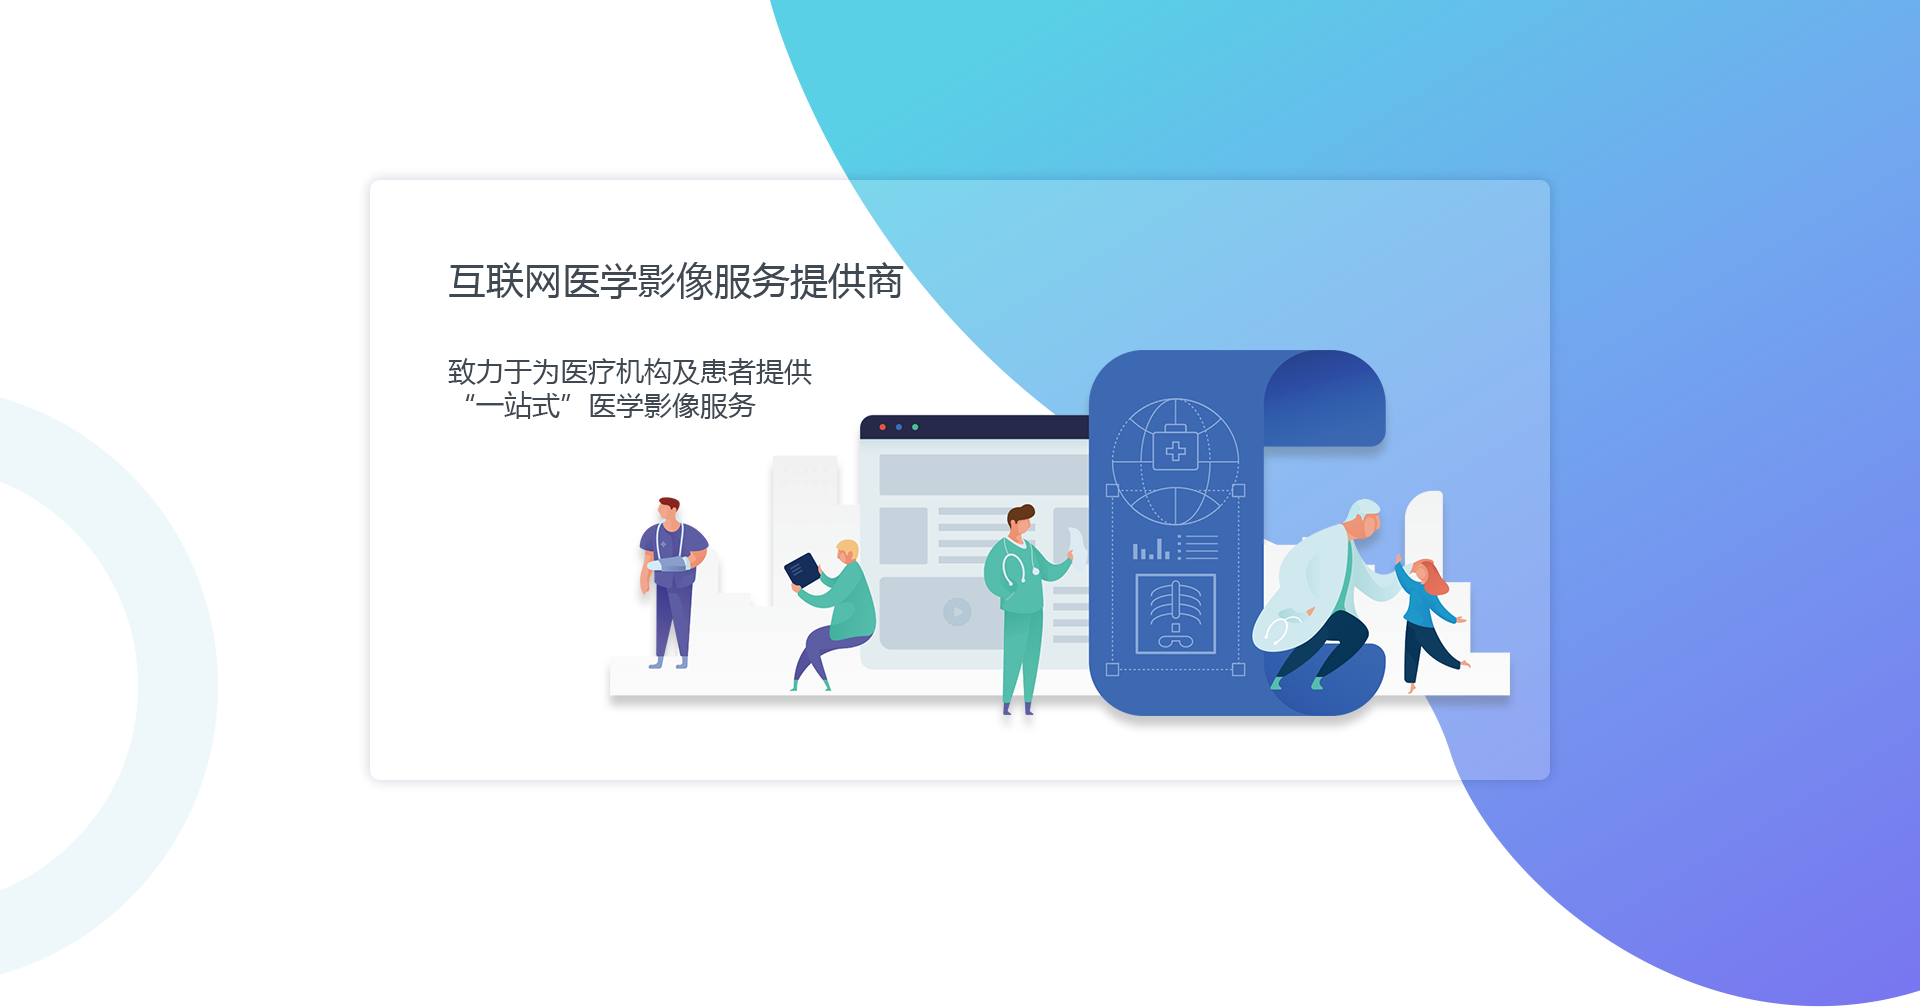
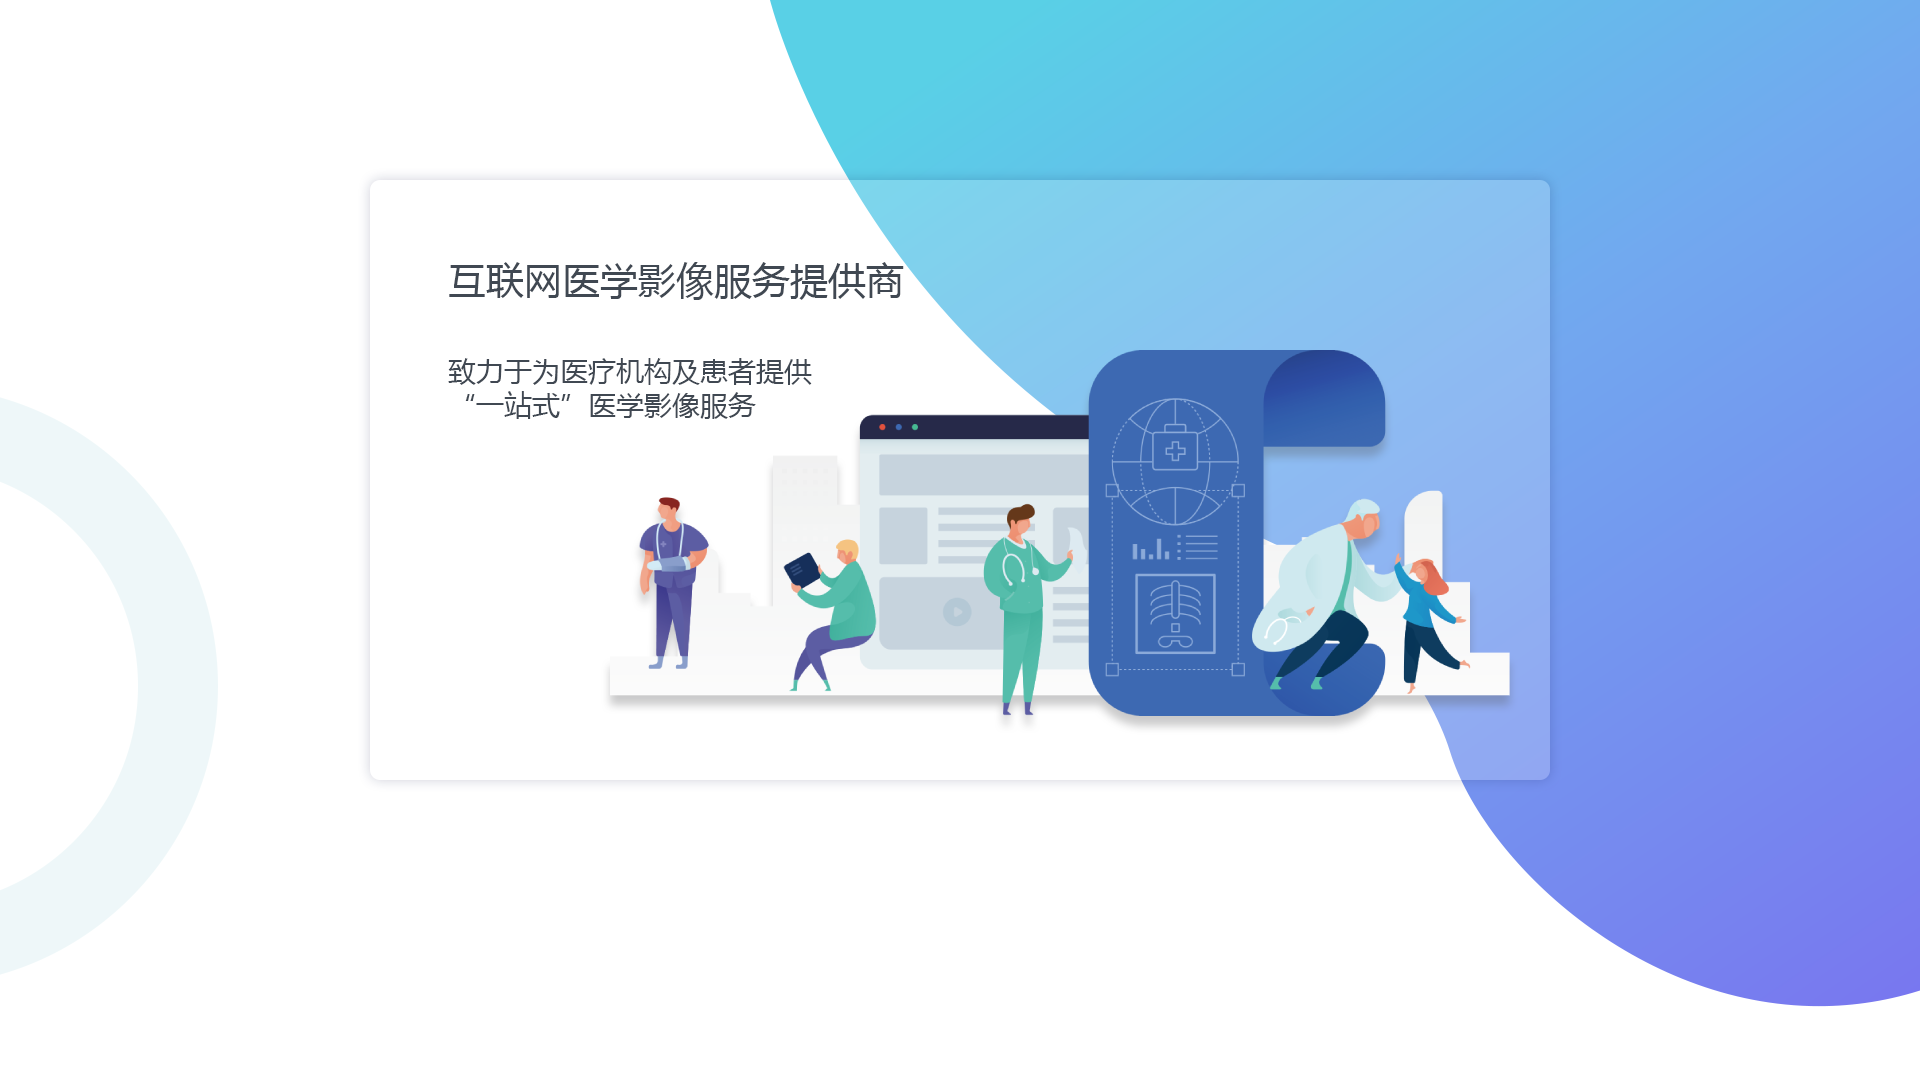
适配各分辨率

Changed region(s): [[0.3125, 0.3078, 1.0, 1.0], [0.2188, 0.1539, 0.8125, 0.431], [0.4062, 0.1231, 0.4375, 0.1539]]

diff --git a/index.html b/index.html
@@ -9,7 +9,7 @@
 	<meta content="width=device-width, initial-scale=1,maximum-scale=1,user-scalable=no" name="viewport">
 
 	<title>逸康网</title>
-
+	<link rel="icon" href="assets/images/logo.png" type="image/x-icon">
 	<link rel="stylesheet" href="css/jquery.fullPage.css">
 	<link rel="stylesheet" href="css/swiper.min.css">
 	<link rel="stylesheet" href="css/animate.min.css">
@@ -108,13 +108,13 @@
 					<ul class="parent">
 						<li class="on"><a href="/index.html">首页</a></li>
 						<li><a href="/about/index.html">产品服务</a>
-							<ul>
+							<ul class="child">
 								<li><a href="/about/index.html">健康服务</a></li>
 
 							</ul>
 						</li>
 						<li><a href="/sics/index.html">云影像解决方案</a>
-							<ul>
+							<ul class="child">
 								<li><a href="/sics/index.html">云胶片</a></li>
 								<li><a href="/sics/edu.html">云教育</a></li>
 								<li><a href="/sics/brand.html">云品牌</a></li>
@@ -122,7 +122,7 @@
 							</ul>
 						</li>
 						<li><a href="/case/index.html">产品演示</a>
-							<ul>
+							<ul class="child">
 								<li><a href="/case/index.html">单体医院</a></li>
 								<li><a href="/case/twins.html">医联体</a></li>
 								<li><a href="/case/area.html">区域平台</a></li>
@@ -180,20 +180,20 @@
 	<!--section start-->
 	<div class="section section3 rep">
 		<!--header Begin-->
-		<header class="header in_header cf">
+<header class="header in_header cf">
 			<div class="wrap cf">
 				<div class="logo"><a href="javascript:void(0);" title=""><img src="assets/images/logo.png" onerror="lods(this)" /><span>逸康医学云影像</span></a></div> 
 				<nav class="menu">
 					<ul class="parent">
 						<li class="on"><a href="/index.html">首页</a></li>
 						<li><a href="/about/index.html">产品服务</a>
-							<ul>
+							<ul class="child">
 								<li><a href="/about/index.html">健康服务</a></li>
 
 							</ul>
 						</li>
 						<li><a href="/sics/index.html">云影像解决方案</a>
-							<ul>
+							<ul class="child">
 								<li><a href="/sics/index.html">云胶片</a></li>
 								<li><a href="/sics/edu.html">云教育</a></li>
 								<li><a href="/sics/brand.html">云品牌</a></li>
@@ -201,7 +201,7 @@
 							</ul>
 						</li>
 						<li><a href="/case/index.html">产品演示</a>
-							<ul>
+							<ul class="child">
 								<li><a href="/case/index.html">单体医院</a></li>
 								<li><a href="/case/twins.html">医联体</a></li>
 								<li><a href="/case/area.html">区域平台</a></li>
@@ -241,10 +241,55 @@
 		</div>
 		<div class="bg">
 		</div>
+		<div class="bg-wrap">
+			<div class="circle c1"></div>
+			<div class="circle c2"></div>
+			<div class="t t1"></div>
+			<div class="t t2"></div>
+		</div>
 	</div>
 	<!--section end-->
 	<!--第四屏开始-->
 	<div class="section section4 rep">
+		<!--header Begin-->
+<header class="header in_header cf">
+			<div class="wrap cf">
+				<div class="logo"><a href="javascript:void(0);" title=""><img src="assets/images/logo.png" onerror="lods(this)" /><span>逸康医学云影像</span></a></div> 
+				<nav class="menu">
+					<ul class="parent">
+						<li class="on"><a href="/index.html">首页</a></li>
+						<li><a href="/about/index.html">产品服务</a>
+							<ul class="child">
+								<li><a href="/about/index.html">健康服务</a></li>
+
+							</ul>
+						</li>
+						<li><a href="/sics/index.html">云影像解决方案</a>
+							<ul class="child">
+								<li><a href="/sics/index.html">云胶片</a></li>
+								<li><a href="/sics/edu.html">云教育</a></li>
+								<li><a href="/sics/brand.html">云品牌</a></li>
+								<li><a href="/sics/diagnosis.html">云诊断</a></li>
+							</ul>
+						</li>
+						<li><a href="/case/index.html">产品演示</a>
+							<ul class="child">
+								<li><a href="/case/index.html">单体医院</a></li>
+								<li><a href="/case/twins.html">医联体</a></li>
+								<li><a href="/case/area.html">区域平台</a></li>
+								<li><a href="/case/image.html">影像中心</a></li>
+								<li><a href="/case/mobile.html">移动体检</a></li>
+								<li><a href="/case/case.html">经典案例</a></li>
+							</ul>
+						</li>
+						<li><a href="about.html" target="_self">关于我们</a></li>  
+					</ul>
+				</nav>
+
+			</div>
+
+		</header>
+		<!--header End-->
 		<div class="sec_01">
 			<h1>我是医疗机构</h1>
 			<h2>（远程影像服务需求方）</h2>
@@ -268,10 +313,50 @@
 			</ul>
 		</div>
 		<div class="bg"></div>
+
 	</div>
 	<!--第四屏结束-->
 	<!--第五屏开始-->
 	<div class="section section5">
+				<!--header Begin-->
+<header class="header in_header cf">
+			<div class="wrap cf">
+				<div class="logo"><a href="javascript:void(0);" title=""><img src="assets/images/logo.png" onerror="lods(this)" /><span>逸康医学云影像</span></a></div> 
+				<nav class="menu">
+					<ul class="parent">
+						<li class="on"><a href="/index.html">首页</a></li>
+						<li><a href="/about/index.html">产品服务</a>
+							<ul class="child">
+								<li><a href="/about/index.html">健康服务</a></li>
+
+							</ul>
+						</li>
+						<li><a href="/sics/index.html">云影像解决方案</a>
+							<ul class="child">
+								<li><a href="/sics/index.html">云胶片</a></li>
+								<li><a href="/sics/edu.html">云教育</a></li>
+								<li><a href="/sics/brand.html">云品牌</a></li>
+								<li><a href="/sics/diagnosis.html">云诊断</a></li>
+							</ul>
+						</li>
+						<li><a href="/case/index.html">产品演示</a>
+							<ul class="child">
+								<li><a href="/case/index.html">单体医院</a></li>
+								<li><a href="/case/twins.html">医联体</a></li>
+								<li><a href="/case/area.html">区域平台</a></li>
+								<li><a href="/case/image.html">影像中心</a></li>
+								<li><a href="/case/mobile.html">移动体检</a></li>
+								<li><a href="/case/case.html">经典案例</a></li>
+							</ul>
+						</li>
+						<li><a href="about.html" target="_self">关于我们</a></li>  
+					</ul>
+				</nav>
+
+			</div>
+
+		</header>
+		<!--header End-->
 		<div class="sec_01">
 			<h1>平台接入情况</h1>
 			<ul>

diff --git a/css/style.css b/css/style.css
@@ -44,16 +44,16 @@
  /*轮播图结束*/
 .section{
 	position: relative;
-	height: 100%!important;
 	background-size: cover;
 	background-position: bottom;
 	background-repeat: no-repeat;
 }
+
 .header{
 	position: absolute;
 	top: 0;
 	z-index: 1;
-	background: rgba(255,255,255,0.9);
+	/*background: rgba(255,255,255,0.9);*/
 	width: 100%;
 
 }
@@ -104,7 +104,7 @@
 	margin: 0 auto;
 }
 .header a:hover{
-	color: #3DBCF0
+	color: #6094d0;
 }
 .menu .parent>li{
 	display: flex;
@@ -115,20 +115,27 @@
 	position: relative;
 }
 .menu .parent>li a{
-	padding: 15px 20px;
+	padding: 0px 20px;
 }
 .menu .parent li ul{
 	width: 100%;
 	position: absolute;
-	top: 60px;
+	top: 100%;
 	display: none;
-	background-color: #fff;
+	background-color: #fafafa;
 }
 .menu .parent li ul>li{
 	display: block;
 }
 .menu .parent li:hover ul{
 	display: block;
+}
+.menu .child li:hover{
+	background:  #6094d0;
+	
+}
+.menu .child li:hover a{
+	color: #fff;
 }
 
 @media (max-width: 820px){
@@ -205,17 +212,19 @@
 
 }
 .section.rep.section3 .bg{
-	height: 12.5rem;
+	height: 16rem;
 	background-image: url('../assets/images/4bg.png');
 	background-repeat: no-repeat;
 	background-position: top;
+	margin-top: -7.3rem;
+	background-size: contain;
 }
 
 .section.rep .sec_01{
 	width: 39.5vw;
 	margin: 0 auto;
-	
-	margin-bottom: 350px;
+	margin-top: 5.3rem;
+	/*margin-bottom: 350px;*/
 	
 }
 
@@ -240,9 +249,10 @@
 }
 .section.rep .sec_02{
 	width: 100%;
-	position: absolute;
+	/*position: absolute;*/
     left: 0;
     bottom: 5rem;
+    margin-top: -50px;
 }
 .section.rep .sec_02 ul{
 	width: 40rem;
@@ -251,6 +261,7 @@
     /*position: absolute;
     left: 19vw;
     bottom: 100px;*/
+   height: 8.33rem;
 
 }
 .section.rep .sec_02 ul li{
@@ -260,7 +271,7 @@
 	display: inline-block;
 	float: left;
 	border:solid 1px #fff;
-	box-shadow: 0 0 30px #ccc;
+	box-shadow: 0 0 15px #ccc;
 	background: #fff;
 	border-radius: 10px;
 	position: relative;
@@ -309,6 +320,40 @@
 .section.rep.active ul li{
 	opacity: 1;
 }
+.section3 .bg-wrap .circle{
+	border-radius: 50px;
+	background-color: #fcf3f3;
+	position: absolute;
+}
+.section3 .bg-wrap .c1{
+	height: 1.2rem;
+	width: 1.2rem;
+	top: 25%;
+	margin-top: -0.6rem;
+	left: 4.7%;
+}
+.section3 .bg-wrap .c2{
+	height: 0.87rem;
+	width: 0.87rem;
+	top: 40%;
+	left: 11.8%;
+}
+.section3 .bg-wrap .t{
+	width:1rem;
+	height:1rem;
+	position: absolute;
+	background-size: contain;
+}
+.section3 .bg-wrap .t1{
+	background-image: url('../assets/images/t1.png');
+	top: 25%;
+	right: 4.7%;
+}
+.section3 .bg-wrap .t2{
+	background-image: url('../assets/images/t2.png');
+	top: 43%;
+	right: 11.8%;
+}
 
 
 /*第四屏*/
@@ -323,14 +368,15 @@
 .section.rep .bg{
 	width: 100%;
 	height: 9.7rem;
-	position: absolute;
+	position: relative;
 	bottom: 0;
+	margin-top: -4.3rem;
 	z-index: -1;
 }
 .section.section4 .bg{
 	background: linear-gradient(#fcf3ff,#fff);
 }
-.section4 ul li{
+.section4 .sec_02 li{
 	position: relative;
 	right: -100px;
 	opacity: 0;

diff --git a/about.html b/about.html
@@ -3,8 +3,24 @@
 <head>
 	<meta charset="UTF-8">
 	<title>关于我们</title>
+	<link rel="stylesheet" href="css/animate.min.css">
+	<style type="text/css">
+		.test{
+			width: 80%;
+			margin: 0 auto;
+			text-align: center;
+		}
+		.test .li2{
+			animation-duration:1.5s;
+			animation-delay: 0.5s;
+		}
+	</style>
 </head>
 <body>
+	<div class="test">
+		<div class="animated bounceInLeft li1">啦啦啦啦</div>
+		<div class="animated bounceInRight li2">啦啦啦啦</div>
+	</div>
 	
 </body>
 </html>

diff --git a/css/reset.css b/css/reset.css
@@ -34,11 +34,11 @@ html{font-size:23px;}
 
 @media (min-width: 1366px) {
 
-html{font-size: 23px;}
+html{font-size: 22px;}
 }  
 
 @media (min-width: 1440px) {
-html{font-size: 30px !important;}
+html{font-size: 24px;}
 } 
 
 @media (min-width: 1680px) {
@@ -54,6 +54,8 @@ html{font-size: 30px;}
 	padding: 0;
     box-sizing: border-box;
 }
+
+
 
 h1,h2,h3,h4{
 	font-weight: normal;
